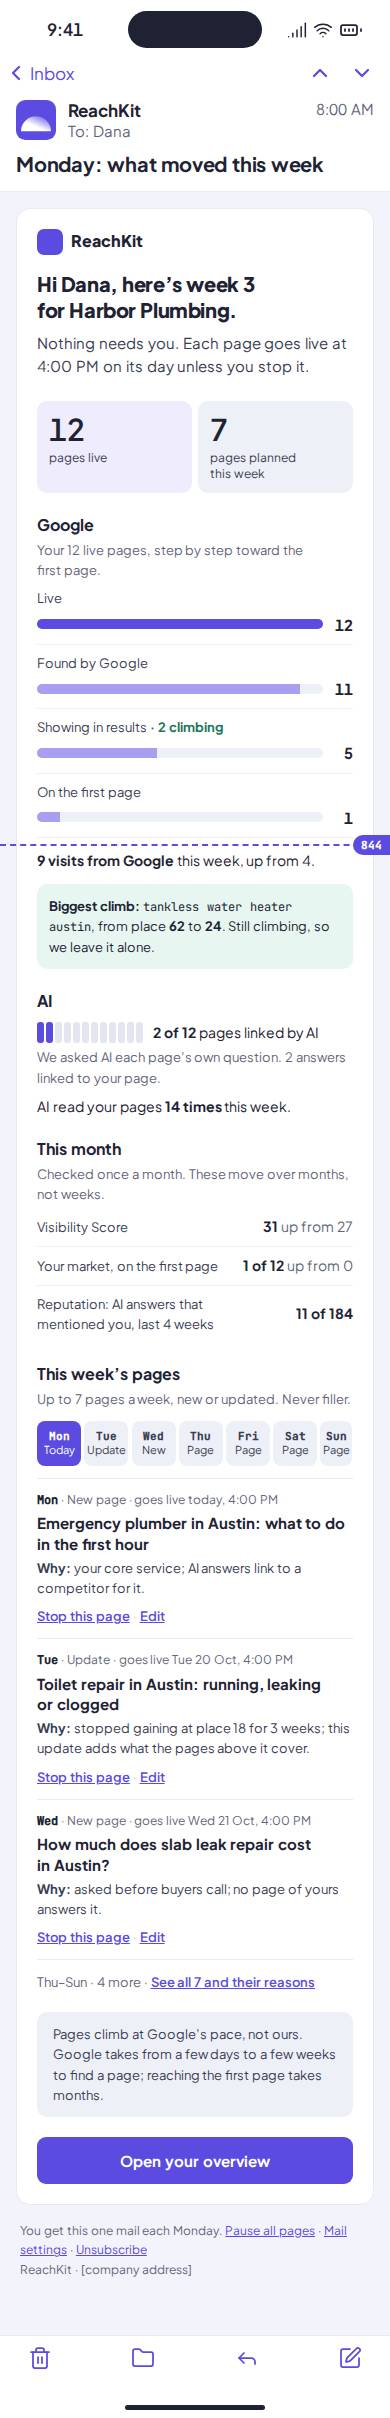
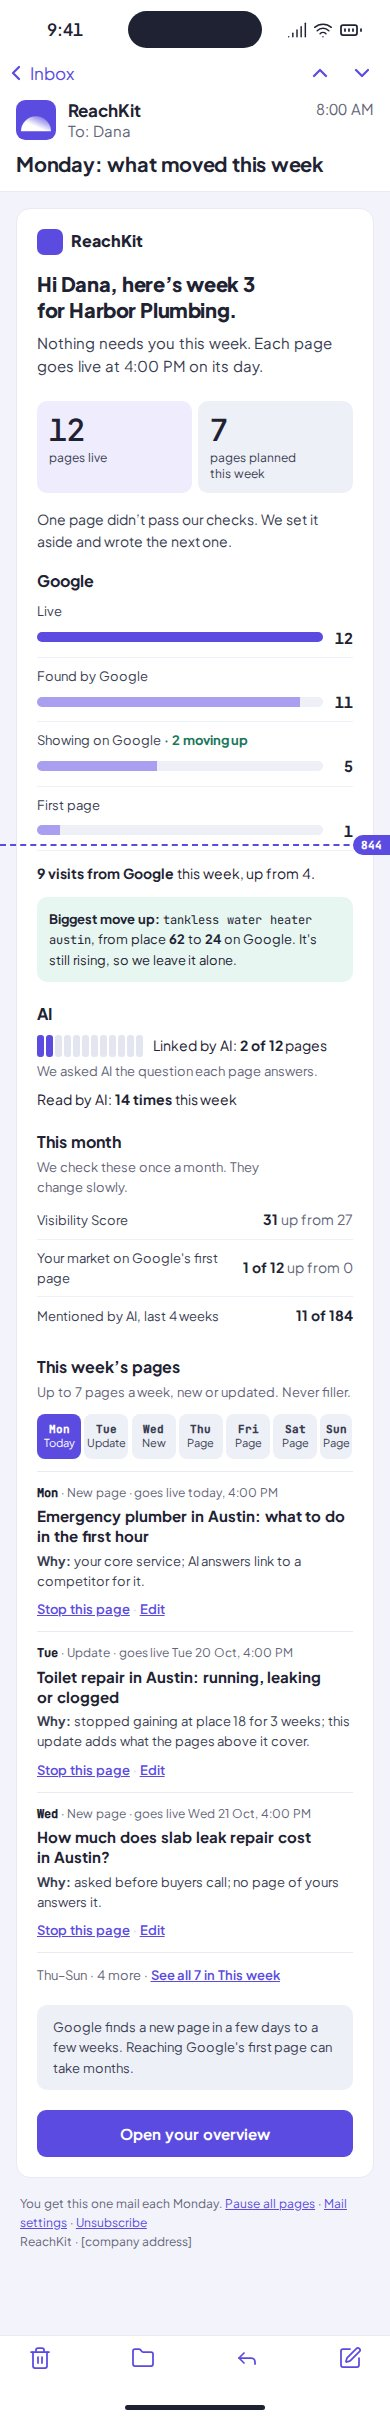
feat(app): the draft screen names a page's stage as This week does, and the boards draw a page set aside (O7) (#2238)
* feat(app): the draft screen names a page's stage as This week does, and the boards draw a page set aside (O7)

The draft chip is the stage This week reads from the same row: a cause the
system rescues reads Planned, a page the re-check set aside wears the grey
Set aside chip with nothing to press, and a critical or unread cause still
reads Needs you. Board Plan names the set-aside day in its other states, and
board MondayMail draws the set-aside line after the published count; the
weekly preview carries one page set aside so the mail ships that line.

* refactor(app): the draft's stage and review history are read in their own module, so model and store shrink

---------

diff --git a/tests/app/draft/stage-chip.test.tsx b/tests/app/draft/stage-chip.test.tsx
@@ -1,0 +1,89 @@
+/** @vitest-environment jsdom */
+// Owner O7 on the draft screen: a page's chip is the stage This week names it at, read from the same stored row, so
+// a cause the system rescues or sets aside never reads Needs you, and a critical or unread one still does.
+import React from "react";
+import { renderToStaticMarkup } from "react-dom/server";
+import { afterEach, beforeEach, describe, expect, it, vi } from "vitest";
+import { fakeDb, type Row } from "../../publish/harness";
+import stored from "../../generate/fixtures/dogfood-drafts-2026-10.min.json";
+
+const db = fakeDb();
+vi.mock("@/lib/db", () => ({ dbAdmin: () => db.client, db: () => db.client }));
+vi.mock("@/app/(account)/app/draft/[draftId]/save", async (importOriginal) => {
+  const actual = await importOriginal<typeof import("@/app/(account)/app/draft/[draftId]/save")>();
+  return { ...actual, draftStore: { save: () => Promise.resolve() } };
+});
+
+import { COPY } from "@/lib/presentation/copy";
+import { readDraftRow } from "@/app/(account)/app/draft/[draftId]/store";
+import { assembleDraft } from "@/app/(account)/app/draft/[draftId]/model";
+import { DraftScreen } from "@/app/(account)/app/draft/[draftId]/DraftScreen";
+import { scheduledPagesFor } from "@/lib/publish/record";
+import { stageOf } from "@/app/(account)/app/calendar/stages";
+
+const NOW = new Date("2026-11-01T09:00:00.000Z");
+const SITE = { siteId: "site-1", timeZone: "UTC", mode: "autopilot" as const, domain: "example.com" };
+const PAGE = stored.drafts.find((draft) => draft.id.startsWith("d98284cc"))!;
+
+/** The stored page, with the moves and meta the named cause leaves on its row. */
+const as = (moves: Row[], meta: Row = {}): Row => ({
+  ...PAGE,
+  site_id: SITE.siteId,
+  state: moves.at(-1)?.to ?? PAGE.state,
+  meta: { ...PAGE.meta, ...meta },
+  transitions: [...((PAGE.transitions ?? []) as Row[]), ...moves],
+  claim_check: null,
+  veto_deadline: null,
+  told: null,
+});
+const move = (from: string, to: string, reason: string, at = "2026-10-31T09:00:00.000Z"): Row => ({ at, from, to, actor: { kind: "system", job: "test" }, reason });
+const tried = [move("needs_attention", "generating", "customer_regenerate"), move("generating", "in_review", "rules_passed"), move("in_review", "approved", "window_closed"), move("approved", "publishing", "due"), move("publishing", "failed", "error")];
+
+const CASES = [
+  ["stopped by the writing rules, unedited", "planned", as([])],
+  ["a publish tried out yesterday, inside its daily re-attempts", "planned", as([...tried, move("failed", "needs_attention", "retries_exhausted")])],
+  ["set aside by the daily re-check", "set_aside", as([move("needs_attention", "skipped", "retired:plain_prose")])],
+  ["a destination the customer must fix", "needs_you", as([...tried, move("failed", "needs_attention", "reason_needs_customer")])],
+  ["the customer's own edit", "needs_you", as([], { first_edited_at: "2026-10-30T10:00:00.000Z" })],
+  ["a cause this build cannot read", "needs_you", as([move("needs_attention", "generating", "customer_regenerate"), move("generating", "needs_attention", "something_new")])],
+] as const;
+
+async function chip(row: Row): Promise<Element> {
+  db.seed("drafts", [row]);
+  const facts = await readDraftRow({ draftId: PAGE.id, site: SITE });
+  if (facts === null) throw new Error("the stored page did not read back");
+  const root = document.createElement("div");
+  root.innerHTML = renderToStaticMarkup(<DraftScreen view={assembleDraft(facts)} generatedLabel="written by ReachKit" />);
+  return root;
+}
+
+beforeEach(() => {
+  db.reset();
+  vi.useFakeTimers({ toFake: ["Date"] });
+  vi.setSystemTime(NOW);
+});
+afterEach(() => vi.useRealTimers());
+
+describe("the draft screen names a page's stage as This week does (owner O7)", () => {
+  it.each(CASES)("a page %s wears the %s chip, and only a critical cause reads Needs you", async (_case, stage, row) => {
+    const root = await chip(row);
+    const badge = root.querySelector('[data-testid^="draft-stage-"]');
+    expect(badge?.getAttribute("data-testid")).toBe(`draft-stage-${stage}`);
+    expect(root.textContent?.includes(COPY["calendar.stage.needs-you"])).toBe(stage === "needs_you");
+  });
+
+  it("a page set aside wears the grey Set aside chip and offers nothing to press", async () => {
+    const root = await chip(CASES[2][2]);
+    const badge = root.querySelector('[data-testid="draft-stage-set_aside"]')!;
+    expect([badge.textContent, badge.classList.contains("badge-ghost")]).toEqual([COPY["calendar.day.set-aside"], true]);
+    expect(root.querySelector('[data-testid="draft-actions"]')).toBeNull();
+  });
+
+  it.each(CASES)("a page %s reads the same on the draft screen and in the calendar's month read", async (_case, _stage, row) => {
+    const root = await chip(row);
+    const [page] = await scheduledPagesFor({ siteId: SITE.siteId, from: "2026-10-01", to: "2026-10-31", now: NOW });
+    if (page === undefined) throw new Error("the calendar's month read did not find the stored page");
+    const calendar = page.setAside ? "set_aside" : stageOf(page, NOW);
+    expect(root.querySelector('[data-testid^="draft-stage-"]')?.getAttribute("data-testid")).toBe(`draft-stage-${calendar}`);
+  });
+});

diff --git a/src/app/(account)/app/draft/[draftId]/DraftScreen.tsx b/src/app/(account)/app/draft/[draftId]/DraftScreen.tsx
@@ -59,13 +59,7 @@ import {
 } from "../../_shell/format";
 import { writtenLine } from "../../_shell/written";
 import { COMMAND_TARGET, publishing } from "../../calendar/publishing";
-import {
-  STAGE_FILTER_COPY_KEY,
-  STAGE_BEACON,
-  STAGE_OF,
-  STAGE_TONE,
-  TONE_BADGE,
-} from "../../calendar/stages";
+import { STAGE_OF, TONE_BADGE } from "../../calendar/stages";
 import { say } from "../../../../_toast/say";
 import { CLAIM_COPY_KEY, CLAIM_TONE, claimAfterSave } from "./claim";
 import { DecidePanel } from "./DecidePanel";
@@ -85,6 +79,7 @@ import { NO_LINK_RECORD, linksOnPage } from "./links-panel";
 import { useDebounced } from "./useDebounced";
 import { SHAPE } from "./shape";
 import { wordCount, type ClaimState, type DraftView } from "./model";
+import { stageChipOf } from "./stage";
 import { NO_CHECKS, type RecordedChecks } from "@/lib/generate/rules/types";
 
 /** The three fields the founder edits (#789), as one value: the buffer, the
@@ -440,11 +435,10 @@ export function DraftScreen(p: {
       ? writtenLine("draft.claim.matched", { entry: claim.matchedEntry })
       : null;
 
-  /** The stage, spoken through the calendar's own projection so the two
-   *  surfaces cannot call one state by two names. `null` for a state that
-   *  occupies no date at all, which draws no chip rather than an unnamed
-   *  one — and is what a stopped page reads as the moment Stop is pressed. */
-  const stage = STAGE_OF[state];
+  /** The stage as This week names the page read; a press in flight projects its asked-for state through the calendar's
+   *  table, as the day panel does. `null` draws no chip, which is what a stopped page reads as the moment Stop is pressed. */
+  const stage = state === view.state ? view.stage : STAGE_OF[state];
+  const chip = stage === null ? null : stageChipOf(stage);
   /** A new page or an update of one the site has; nothing where unread. */
   const update = view.target.kind !== "unknown" && (view.target.kind === "fix" || view.target.update === true);
   const KindIcon = update ? RefreshCw : Plus;
@@ -472,9 +466,9 @@ export function DraftScreen(p: {
   /** The stage badge, with the stage's dot — which pulses on *Your review*
    *  and *Live*, the calm layer's one loop (`STAGE_BEACON`). */
   const stageBadge =
-    stage === null ? null : (
+    chip === null ? null : (
       <span
-        className={`badge badge-soft ${TONE_BADGE[STAGE_TONE[stage]]}`}
+        className={`badge badge-soft ${TONE_BADGE[chip.tone]}`}
         data-testid={`draft-stage-${stage}`}
       >
         {/* Ready draws the board's tick; every other stage keeps its dot. */}
@@ -482,11 +476,11 @@ export function DraftScreen(p: {
           <CircleCheck className="size-3.5 shrink-0" strokeWidth={1.75} aria-hidden />
         ) : (
           <span
-            className={`size-1.5 shrink-0 rounded-full bg-current ${STAGE_BEACON[stage]}`}
+            className={`size-1.5 shrink-0 rounded-full bg-current ${chip.beacon}`}
             aria-hidden
           />
         )}
-        {copy(STAGE_FILTER_COPY_KEY[stage])}
+        {copy(chip.word)}
       </span>
     );
 

diff --git a/docs/design/boards/canvas/Plan.dc.html b/docs/design/boards/canvas/Plan.dc.html
@@ -231,7 +231,7 @@ h1,h2,h3,.h1{text-wrap:balance}p,li{text-wrap:pretty}
       <div class="lrow" style="font-size: 14px"><span class="muted">4 of 12 live pages</span><a href="#" style="font-weight: 600">Show all 12</a></div>
     </section>
 
-    <section class="states" aria-label="Other states of this screen"><p class="eyebrow">Other states</p><div class="state"><span class="eyebrow">A day you stopped</span><span>The cell reads “Stopped” with the stop icon, and its topic is dropped. Line: “Stopped by you on Mon 19. The other days are not affected.”</span></div><div class="state"><span class="eyebrow">A day with nothing worth writing</span><span>A dashed cell: “Nothing worth writing today, so no page. We skip a day, never fill it.”</span></div><div class="state"><span class="eyebrow">Before the first Monday</span><span>Your first week is being chosen. It shows here by Monday morning, with a reason for each page.</span></div></section>
+    <section class="states" aria-label="Other states of this screen"><p class="eyebrow">Other states</p><div class="state"><span class="eyebrow">A day you stopped</span><span>The cell reads “Stopped” with the stop icon, and its topic is dropped. Line: “Stopped by you on Mon 19. The other days are not affected.”</span></div><div class="state"><span class="eyebrow">A page that didn’t pass our checks</span><span>The cell reads “Set aside” in grey, with no button, and its line “Didn’t pass our checks”. The day panel says “This page didn’t pass our checks, so we set it aside. Nothing is needed from you.” and offers nothing.</span></div><div class="state"><span class="eyebrow">A day with nothing worth writing</span><span>A dashed cell: “Nothing worth writing today, so no page. We skip a day, never fill it.”</span></div><div class="state"><span class="eyebrow">Before the first Monday</span><span>Your first week is being chosen. It shows here by Monday morning, with a reason for each page.</span></div></section>
 
   </main>
   <nav class="dock" aria-label="Main"><a href="Main.dc.html"><svg viewBox="0 0 24 24" aria-hidden="true"><path d="M3 10l9-7 9 7v10a1 1 0 0 1-1 1h-5v-6H9v6H4a1 1 0 0 1-1-1z"></path></svg>Overview</a><a href="#" aria-current="page"><svg viewBox="0 0 24 24" aria-hidden="true"><rect x="3" y="4" width="18" height="18" rx="2"></rect><path d="M16 2v4M8 2v4M3 10h18"></path></svg>This week</a><a href="SettingsIndex.dc.html"><svg viewBox="0 0 24 24" aria-hidden="true"><circle cx="12" cy="12" r="3"></circle><path d="M12 2v3M12 19v3M4.2 4.2l2.1 2.1M17.7 17.7l2.1 2.1M2 12h3M19 12h3M4.2 19.8l2.1-2.1M17.7 6.3l2.1-2.1"></path></svg>Settings</a></nav>

diff --git a/src/app/(account)/app/draft/[draftId]/model.ts b/src/app/(account)/app/draft/[draftId]/model.ts
@@ -30,7 +30,8 @@ import type { PageType, PlanReason } from "@/lib/opportunities/types";
 import { weekStartFor } from "@/lib/scan/weekly/week";
 import type { RecordedChecks } from "@/lib/generate/rules/types";
 import type { PublishingMode } from "../../_shell/model";
-import type { State } from "../../calendar/stages";
+import { STAGE_OF, type State } from "../../calendar/stages";
+import type { Standing } from "./stage";
 import { factPresentIn } from "./grounded";
 
 /** REQ-045 criterion 3's four outcomes. `nothing_to_check` is the empty
@@ -281,7 +282,7 @@ export const NO_RULE_FACTS: RuleFacts = Object.freeze({
   pageType: null,
 });
 
-export interface DraftView {
+export interface DraftView extends Required<Standing> {
   draftId: string;
   title: string;
   /** The meta description (`drafts.meta.description`), which the founder
@@ -301,9 +302,6 @@ export interface DraftView {
    *  label truthful and what an unedited page's copy-out is identical to. */
   bodyMdGenerated: string;
   state: State;
-  /** Whether the page ever entered review (#1180): a stopped page that
-   *  never did may be edited, written again or skipped. */
-  enteredReview: boolean;
   authorship: Authorship;
   grounded: Grounded;
   claim: ClaimState;
@@ -422,7 +420,7 @@ export interface KnownCheck {
 
 /** Everything the draft view reads, before it is a model. One shape, so the
  *  fixture and a future query answer the same question. */
-export interface DraftFacts {
+export interface DraftFacts extends Standing {
   draftId: string;
   title: string;
   description: string;
@@ -433,8 +431,6 @@ export interface DraftFacts {
   bodyMd: string;
   bodyMdGenerated: string;
   state: State;
-  /** Whether §9's record shows the page in review at any point (#1180). */
-  enteredReview: boolean;
   /** Set on the first save that changed the text; `null` on a draft the
    *  customer has not edited. */
   firstEditedAt: Date | null;
@@ -544,6 +540,7 @@ export function assembleDraft(facts: DraftFacts): DraftView {
     bodyMdGenerated: facts.bodyMdGenerated,
     state: facts.state,
     enteredReview: facts.enteredReview,
+    stage: facts.stage ?? STAGE_OF[facts.state],
     authorship:
       facts.firstEditedAt === null
         ? { edited: false }

diff --git a/src/app/(account)/app/draft/[draftId]/stage.ts b/src/app/(account)/app/draft/[draftId]/stage.ts
@@ -1,0 +1,31 @@
+// What a draft row's transitions say about the page, read once with the screen's clock, so the draft screen names
+// a page exactly as This week does (owner O7).
+import type { CopyKey } from "@/lib/presentation/copy";
+import { needsYouOf, setAsideOf } from "@/lib/publish/record/needs-you";
+import type { Tone } from "@/ui/types";
+import { DAY_STATE_COPY_KEY, DAY_STATE_TONE, STAGE_BEACON, STAGE_FILTER_COPY_KEY, STAGE_TONE, stageOf, type Stage, type State } from "../../calendar/stages";
+
+/** A page's stage, or This week's grey *Set aside* day for one the daily re-check set aside; `null` draws no chip. */
+export type DraftStage = Stage | "set_aside" | null;
+
+export interface Standing {
+  /** Whether §9's record shows the page in review at any point (#1180): a stopped page that never did may be
+   *  edited, written again or skipped. */
+  enteredReview: boolean;
+  /** The stage This week names the page at; absent reads `state` through `STAGE_OF`. */
+  stage?: DraftStage;
+}
+
+export function standingAtRead(row: { state: State; transitions: unknown; meta: unknown }, at: Date): Required<Standing> {
+  return {
+    enteredReview: Array.isArray(row.transitions) && row.transitions.some((move: { to?: unknown } | null) => move?.to === "in_review"),
+    stage: setAsideOf(row) ? "set_aside" : stageOf({ state: row.state, needsYou: needsYouOf(row) }, at),
+  };
+}
+
+/** The chip's word, tone and dot for a stage, in This week's words. */
+export function stageChipOf(stage: Stage | "set_aside"): { word: CopyKey; tone: Tone; beacon: string } {
+  return stage === "set_aside"
+    ? { word: DAY_STATE_COPY_KEY.set_aside, tone: DAY_STATE_TONE.set_aside, beacon: "" }
+    : { word: STAGE_FILTER_COPY_KEY[stage], tone: STAGE_TONE[stage], beacon: STAGE_BEACON[stage] };
+}

diff --git a/src/app/(account)/app/draft/[draftId]/store.ts b/src/app/(account)/app/draft/[draftId]/store.ts
@@ -60,6 +60,7 @@ import {
 import type { PublishingMode } from "../../_shell/model";
 import type { State } from "../../calendar/stages";
 import { pageRecordFor } from "@/lib/publish/record";
+import { standingAtRead } from "./stage";
 import { readingOf } from "@/lib/measure/page-reading";
 import { verdict } from "@/lib/opportunities/verdicts/verdict";
 import { takeDownStanding } from "@/lib/publish/take-down/standing";
@@ -542,10 +543,7 @@ export async function readDraftRow(a: {
     linkRecord: linkRecordAt(row.meta),
     domain: a.site.domain,
     state: row.state as State,
-    // The fact §9's `never_entered_review` guard reads (#1180).
-    enteredReview:
-      Array.isArray(row.transitions) &&
-      row.transitions.some((move: { to?: unknown } | null) => move?.to === "in_review"),
+    ...standingAtRead({ state: row.state as State, transitions: row.transitions, meta: row.meta }, at),
     firstEditedAt: firstEdited === null ? null : new Date(firstEdited),
     // §8's recorded fact, from its own column and through the one reader
     // (`@/lib/generate/fact`). `null` where generation recorded no

diff --git a/docs/design/boards/canvas/MondayMail.dc.html b/docs/design/boards/canvas/MondayMail.dc.html
@@ -181,6 +181,10 @@ p,li,dd{text-wrap:pretty}
   </table>
 </td></tr>
 
+<tr><td style="padding: 12px 20px 0">
+  <p style="margin: 0; font-family: 'Plus Jakarta Sans', Arial, Helvetica, sans-serif; font-size: 14px; color: #3a3d52">One page didn’t pass our checks. We set it aside and wrote the next one.</p>
+</td></tr>
+
 <tr><td style="padding: 16px 20px 0">
   <h2 style="margin: 0; font-family: 'Plus Jakarta Sans', Arial, Helvetica, sans-serif; font-size: 16px; font-weight: 700; color: #1e2233">Google</h2>
   <table role="presentation" width="100%" cellpadding="0" cellspacing="0" border="0">

diff --git a/tests/mail/preview/preview.test.ts b/tests/mail/preview/preview.test.ts
@@ -189,6 +189,7 @@ describe("issue #376 — the shell renders S20, and every kind the set draws wea
       "Hi Dana, here’s week 3 for harborplumbing.example.",
       "Nothing needs you this week. Each page goes live at 4:00 PM on its day.",
       COPY["mail.weekly.pages.live"],
+      COPY["mail.weekly.setAside.one"],
       COPY["mail.weekly.google.title"],
       "Showing on Google · 2 moving up",
       "9 visits from Google this week, up from 4.",

diff --git a/tests/mail/preview/kinds.ts b/tests/mail/preview/kinds.ts
@@ -272,6 +272,7 @@ export async function composePreview(kind: PreviewKind): Promise<PreviewMail> {
         numbers: {
           live: measured(12, AT),
           planned: measured(7, AT),
+          setAside: { n: 1, replaced: true },
           google: {
             steps: (["draft.ladder.found", "draft.ladder.showing", "draft.ladder.first-page"] as const).map((name, i) => ({
               name,

diff --git a/docs/spec/decisions/2026-11-01-2227.md b/docs/spec/decisions/2026-11-01-2227.md
@@ -1,0 +1,5 @@
+---
+section: §7
+---
+
+2026-11-01  **The boards draw a page set aside, and the draft screen names its stage as This week does** (owner O7, 2026-10-31, "quietly dropped, never parked waiting for the customer"; #2227, the remainder of #2164). Board Plan's *Other states* names the set-aside day: the cell reads "Set aside" in grey with no button and the line "Didn’t pass our checks", and the day panel says the page was set aside and that nothing is needed. Board MondayMail draws "One page didn’t pass our checks. We set it aside and wrote the next one." right after the published count, with no link and no button. The draft screen's chip is the stage This week reads from the same row: a cause that is not critical reads Planned, a page set aside reads the grey Set aside with no action, and a critical or unread cause still reads Needs you. Consequences: both boards are re-fingerprinted with `missing` and plain words unchanged; the `weekly` preview fixture carries one page set aside, so the board's line is one the mail ships. AppDraft is not redrawn: the chip reuses This week's words.
